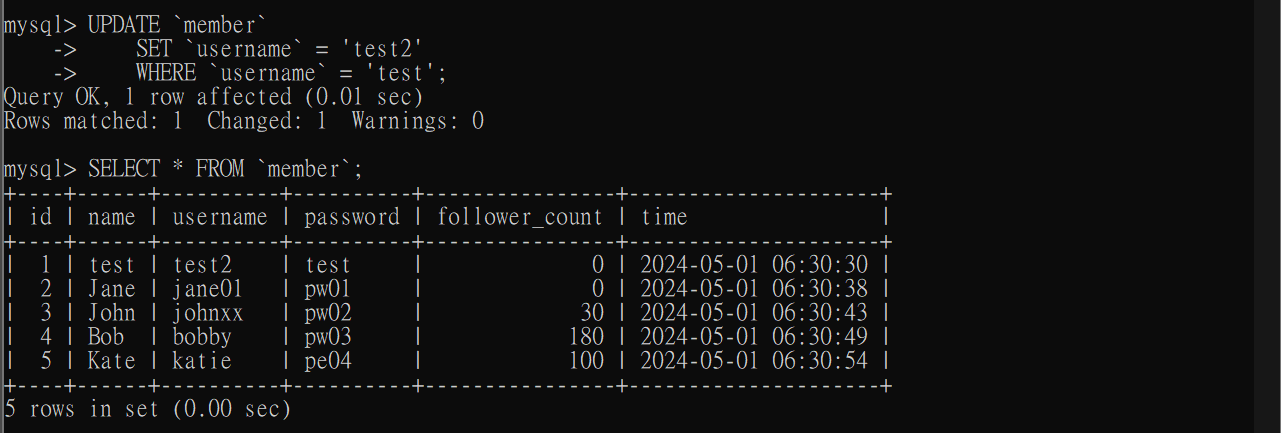
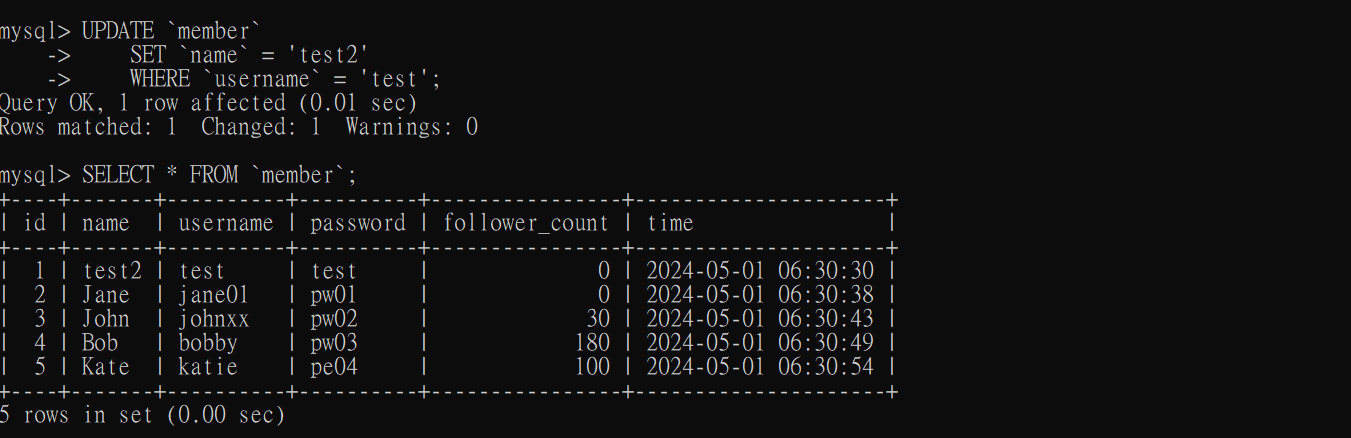
week5 作業訂正

diff --git a/week5/README.md b/week5/README.md
@@ -96,7 +96,7 @@ download_version: `Windows (x86, 64-bit), MSI Installer`
 -  UPDATE data in name column to test2 where username equals to test.
     ```sql
     UPDATE `member`
-    SET `username` = 'test2'
+    SET `name` = 'test2'
     WHERE `username` = 'test';
     SELECT * FROM `member`;
     ```
@@ -179,36 +179,36 @@ download_version: `Windows (x86, 64-bit), MSI Installer`
     INNER JOIN `message` ON `member`.`id` =  `message`.`member_id`;
     ```
     ![](screenshots/task5-2.png)
-- SELECT all messages, including sender names, where sender username equals to test. We have to JOIN the member table to filter and get that.
+- SELECT all messages, including sender names, where sender `username` equals to test. We have to JOIN the member table to filter and get that.
     ```sql
     SELECT `member`.`name` AS `sender_name`, `message`.`content` 
     FROM `member`
     INNER JOIN `message` ON `member`.`id` =  `message`.`member_id`
-    WHERE `name` = 'test';
+    WHERE `username` = 'test';
     ```
     ![](screenshots/task5-3.png)
-- Use SELECT, SQL Aggregation Functions with JOIN statement, get the average like count of messages where sender username equals to test.
+- Use SELECT, SQL Aggregation Functions with JOIN statement, get the average like count of messages where sender `username` equals to test.
     ```sql
     WITH `temp` AS (
-        SELECT `member`.`name` AS `sender_name`, `message`.`like_count` 
+        SELECT `member`.`username` AS `sender_username`, `message`.`like_count` 
         FROM `member`
         INNER JOIN `message` ON `member`.`id` =  `message`.`member_id`
-        WHERE `name` IN ('test')
+        WHERE `username` IN ('test')
     )
-    SELECT `sender_name`, AVG(`like_count`) AS `avg_like_count`
+    SELECT `sender_username`, AVG(`like_count`) AS `avg_like_count`
     FROM `temp`;
     ```
     ![](screenshots/task5-4.png)
-- Use SELECT, SQL Aggregation Functions with JOIN statement, get the average like count of messages GROUP BY sender username.
+- Use SELECT, SQL Aggregation Functions with JOIN statement, get the average like count of messages GROUP BY sender `username`.
     ```sql
     WITH `temp` AS (
-        SELECT `member`.`name` AS `sender_name`, `message`.`like_count` 
+        SELECT `member`.`username` AS `sender_username`, `message`.`like_count` 
         FROM `member`
         INNER JOIN `message` ON `member`.`id` =  `message`.`member_id`
     )
-    SELECT `sender_name`, AVG(`like_count`) AS `avg_like_count`
+    SELECT `sender_username`, AVG(`like_count`) AS `avg_like_count`
     FROM `temp`
-    GROUP BY `sender_name`;
+    GROUP BY `sender_username`;
     ```
     ![](screenshots/task5-5.png)
 
